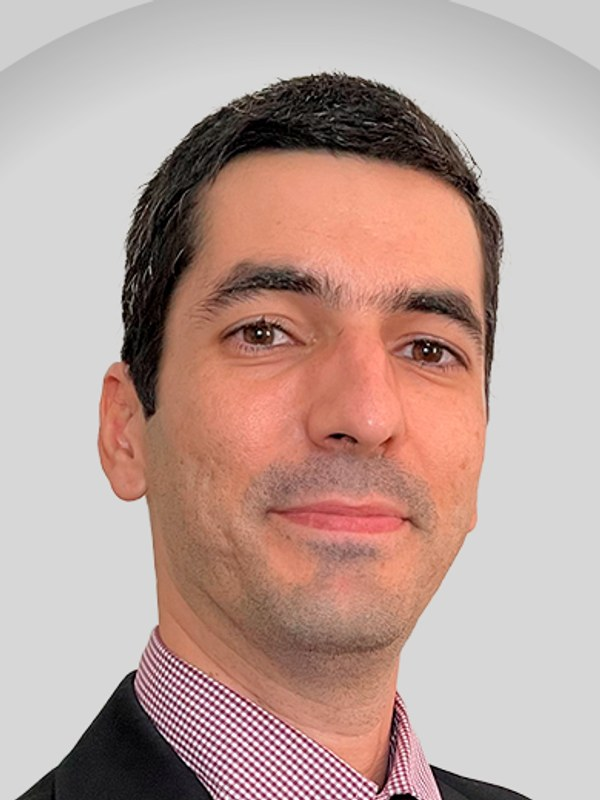
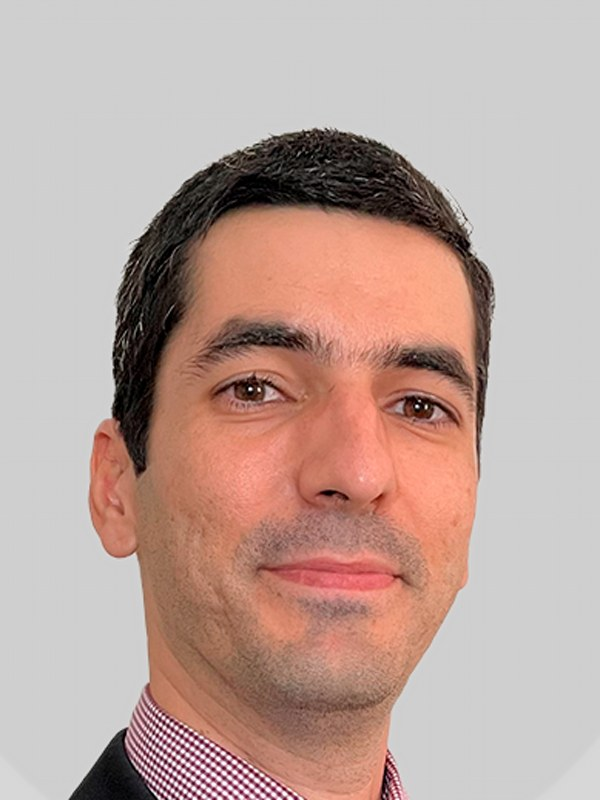
Talentos: enquadramento padronizado pelo da Viviane e sem badge sobre a foto
- Retratos refeitos a partir das fotos originais com detecção de rosto (mesmo tamanho e posição do rosto) e fundo cinza liso
- Cards de talento em 3:4, sem cortar o retrato
- Remove a badge de área sobre as fotos (grade e página do talento)

diff --git a/components/sections/Talents.tsx b/components/sections/Talents.tsx
@@ -74,7 +74,7 @@ export function Talents() {
                 transition={{ duration: 0.4, ease: [0.16, 1, 0.3, 1] }}
               >
                 <Link href={`/talentos/${t.slug}`} className="group block">
-                  <div className="relative aspect-[4/5] overflow-hidden rounded-3xl bg-mist">
+                  <div className="relative aspect-[3/4] overflow-hidden rounded-3xl bg-mist">
                     <Image
                       src={t.photo}
                       alt={t.name}
@@ -83,9 +83,6 @@ export function Talents() {
                       className="object-cover object-top transition-transform duration-700 group-hover:scale-105"
                     />
                     <div className="absolute inset-0 bg-gradient-to-t from-paper/80 via-transparent to-transparent opacity-0 transition-opacity duration-500 group-hover:opacity-100" />
-                    <span className="absolute left-3 top-3 rounded-full bg-paper/75 text-white px-2.5 py-1 text-[10px] font-semibold uppercase tracking-wider text-ink backdrop-blur">
-                      {t.group}
-                    </span>
                     <span className="absolute bottom-3 right-3 grid h-10 w-10 translate-y-3 place-items-center rounded-full bg-action text-white opacity-0 transition-all duration-500 group-hover:translate-y-0 group-hover:opacity-100">
                       <Icon name="arrow" size={16} strokeWidth={2} />
                     </span>

diff --git a/app/talentos/[slug]/page.tsx b/app/talentos/[slug]/page.tsx
@@ -43,11 +43,8 @@ export default function TalentPage({ params }: Params) {
       >
         <div className="mt-10 grid grid-cols-1 items-center gap-10 md:grid-cols-12 md:gap-14">
           <Reveal className="md:col-span-5 lg:col-span-4">
-            <div className="relative mx-auto aspect-[4/5] w-full max-w-[380px] overflow-hidden rounded-[32px] bg-mist shadow-lift md:mx-0">
+            <div className="relative mx-auto aspect-[3/4] w-full max-w-[380px] overflow-hidden rounded-[32px] bg-mist shadow-lift md:mx-0">
               <Image src={talent.photo} alt={talent.name} fill priority sizes="(max-width: 768px) 90vw, 380px" className="object-cover object-top" />
-              <span className="absolute left-4 top-4 rounded-full bg-paper/75 text-white px-3 py-1.5 text-xs font-semibold backdrop-blur">
-                {talent.group}
-              </span>
             </div>
           </Reveal>
 
